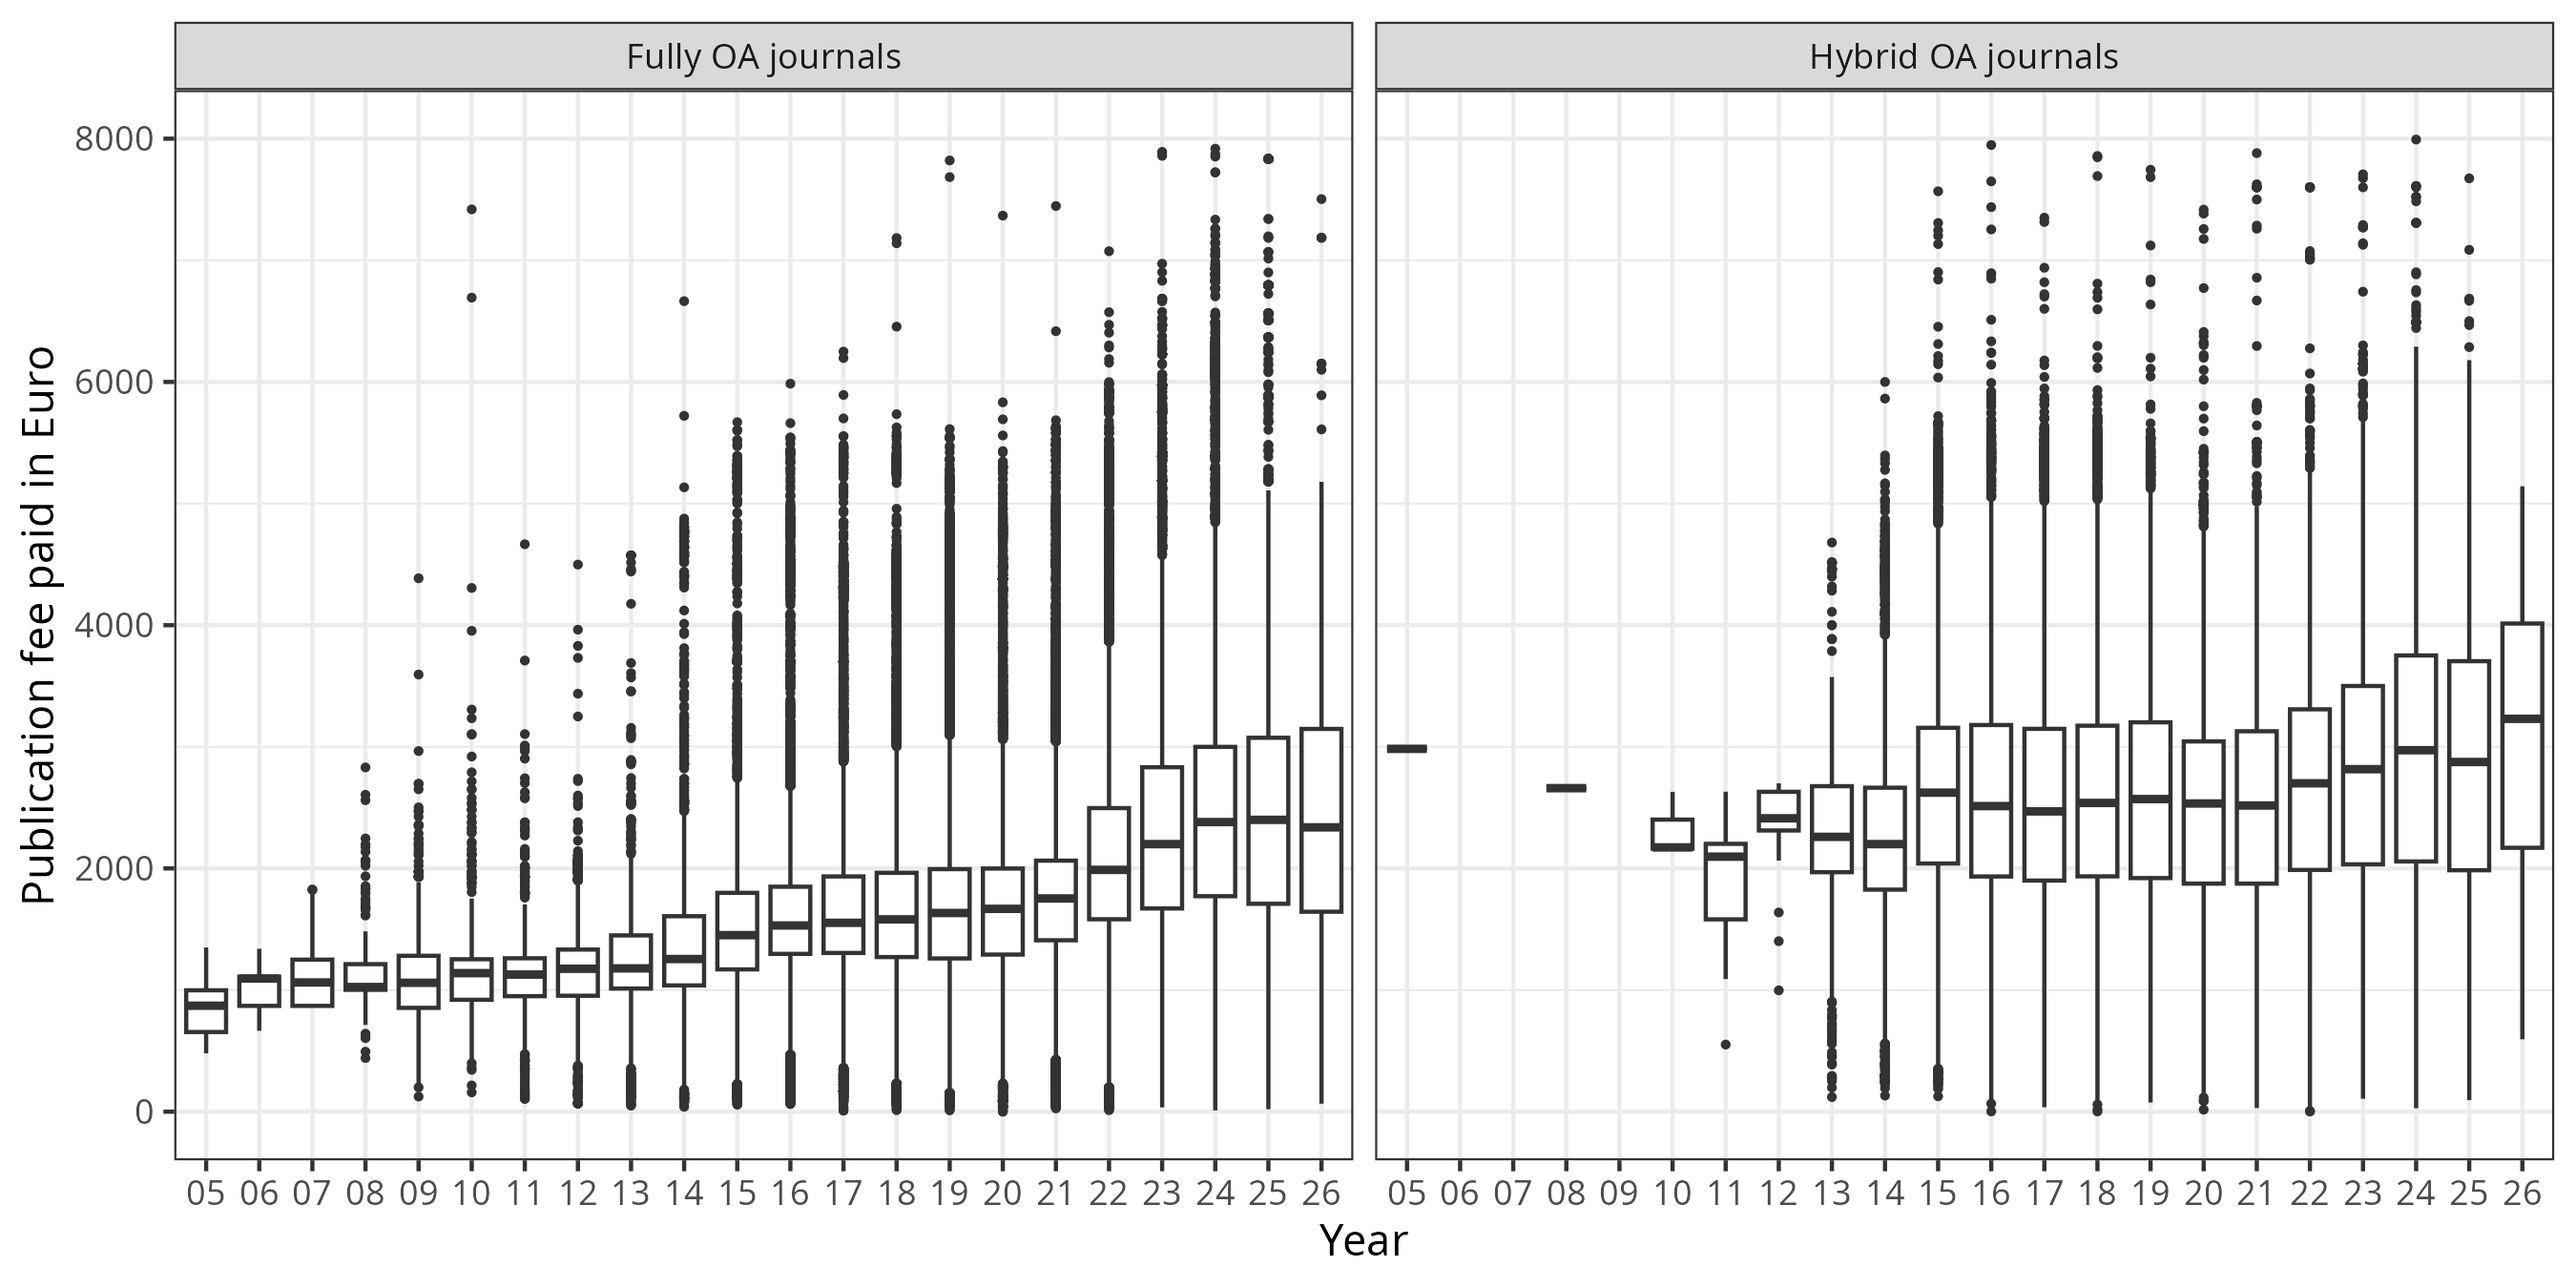
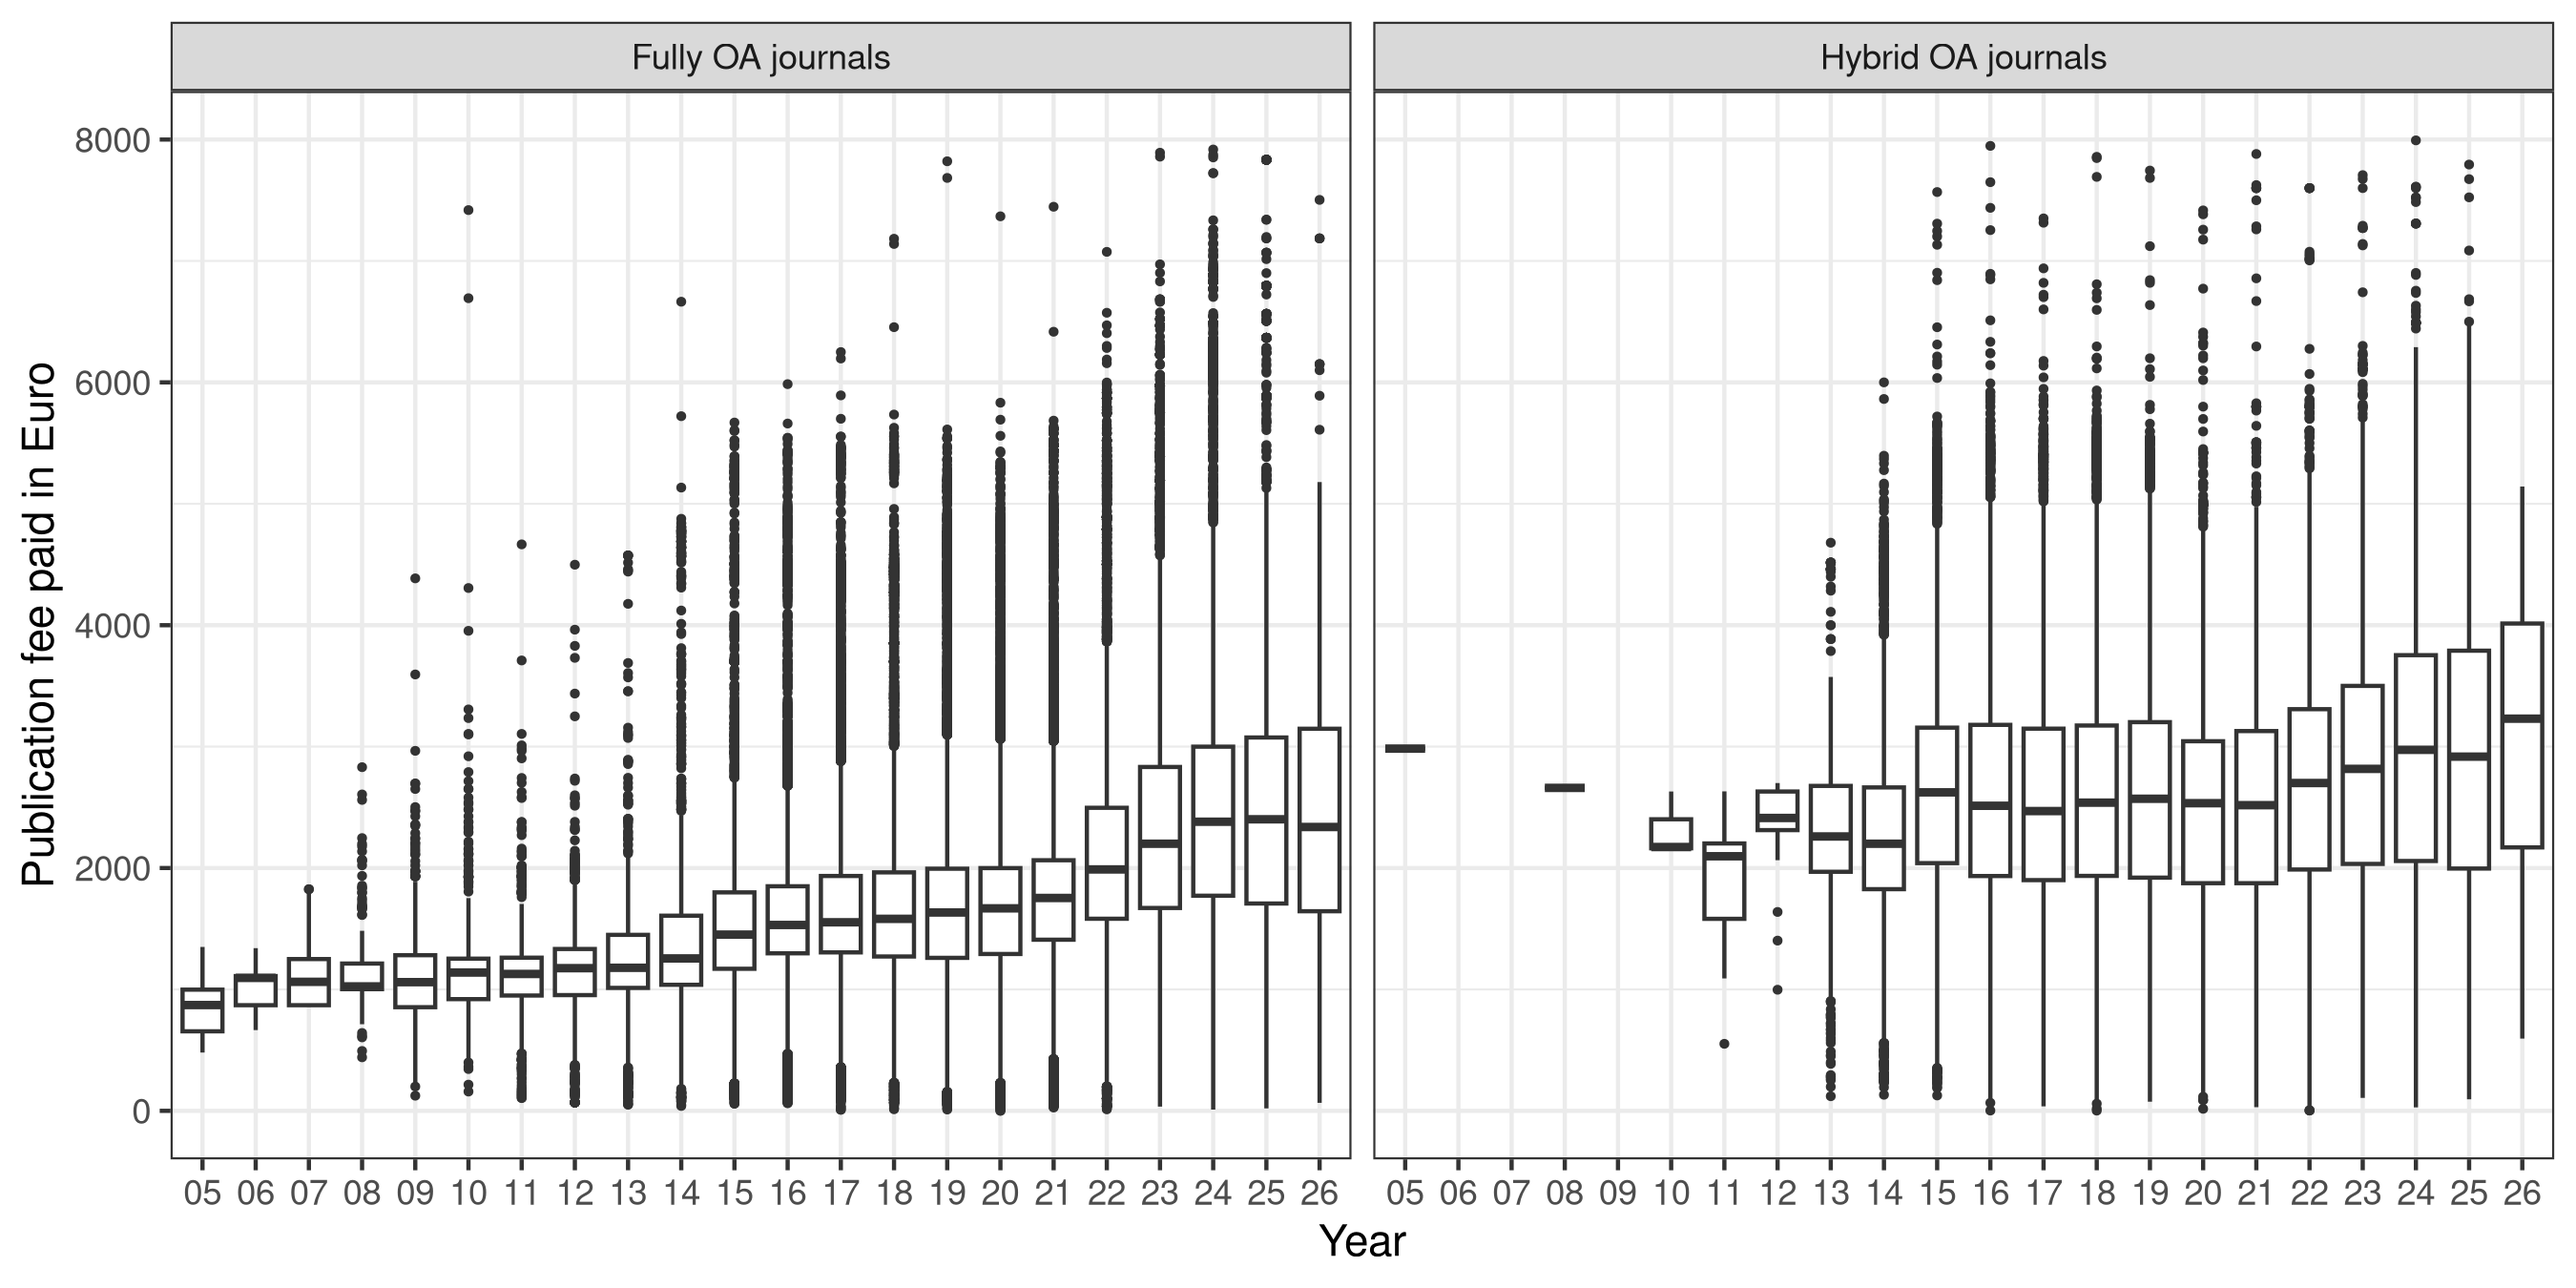
update README

diff --git a/README.md b/README.md
@@ -16,7 +16,7 @@ At the moment OpenAPC provides the following cost data:
 
 | Entity                      | Count                                     | Aggregated Sum (€)               | Contributing Institutions                                         |
 |-----------------------------|-------------------------------------------|----------------------------------|-------------------------------------------------------------------|
-| Articles (APCs)             |294,619                  | 616,943,808    | 489                   |
+| Articles (APCs)             |295,287                  | 618,733,567    | 490                   |
 | Monographs (BPCs)           |2,773                           | 18,346,882             | 121                            |
 | OA Agreements/Contracts     |1,623                 | 215,072,399   | 143                  |
 
@@ -579,6 +579,7 @@ The following institutions have contributed to OpenAPC so far:
 - IRSTEA - Institut de Recherche en Sciences et Technologies pour l'Environnement et l'Agriculture
 - ISARA - Institut Supérieur d'Agriculture et d'Agroalimentaire Rhône-Alpes
 - Institut Pasteur
+- [Institut national de l'environnement industriel et des risques](https://www.ineris.fr)
 - LNE - Laboratoire National de Métrologie et d'Essais
 - La Rochelle Université
 - Le Mans Université
@@ -1027,13 +1028,13 @@ The following institutions have contributed to OpenAPC so far:
 
 
 
-The APC data set contains information on 269,127 Open Access journal articles for which publication fees were paid on an article basis. These articles were published in fully Open Access and hybrid journals, and the corresponding fees were supported financially by 487 research-performing institutions and research funders.
+The APC data set contains information on 269,795 Open Access journal articles for which publication fees were paid on an article basis. These articles were published in fully Open Access and hybrid journals, and the corresponding fees were supported financially by 488 research-performing institutions and research funders.
 
-In total, article publication fee spending covered by the OpenAPC initiative amounted to € 557,815,887. The average payment was € 2,073 and the median was € 1,915.
+In total, article publication fee spending covered by the OpenAPC initiative amounted to € 559,605,646. The average payment was € 2,074 and the median was € 1,916.
 
-200,604 articles in the data set were published in fully open access journals. Total spending on publication fees for these articles amounts to € 379,955,288, including value-added tax; the average payment was € 1,894 (median =  € 1,751, SD = € 931).
+201,181 articles in the data set were published in fully open access journals. Total spending on publication fees for these articles amounts to € 381,401,721, including value-added tax; the average payment was € 1,896 (median =  € 1,751, SD = € 933).
 
-Hybrid open access journals rely on both publication fees and subscriptions as revenue source. 68,523 articles in the data set were published in hybrid journals. Total expenditure amounts to 177,860,599 €; the average fee was € 2,596 (median =  € 2,534, SD = € 1,186).
+Hybrid open access journals rely on both publication fees and subscriptions as revenue source. 68,614 articles in the data set were published in hybrid journals. Total expenditure amounts to 178,203,925 €; the average fee was € 2,597 (median =  € 2,535, SD = € 1,189).
 
 Articles published under OA publishing agreements, including cases where APCs are paid on an article basis within such agreements, are not included in the APC data set but are recorded in the TA data set.
 
@@ -1067,9 +1068,9 @@ Articles published under OA publishing agreements, including cases where APCs ar
 |2020   |      20,276|   1,706|     1,668|   0.2 -  8,906|           4,583|       2,497|         2,534|    16.6 -  7,416|
 |2021   |      25,362|   1,799|     1,753|  27.0 -  8,341|           3,890|       2,568|         2,520|    30.2 - 11,400|
 |2022   |      27,038|   2,066|     1,989|  12.4 - 11,175|           3,188|       2,909|         2,730|     2.1 - 22,210|
-|2023   |      23,928|   2,275|     2,200|  35.0 -  9,893|           3,850|       3,024|         2,860|   106.4 - 11,895|
-|2024   |      18,896|   2,433|     2,382|  10.3 -  9,758|           2,953|       3,135|         3,014|    28.4 - 13,044|
-|2025   |       5,774|   2,576|     2,400|  20.0 -  8,854|             928|       3,206|         2,977|    95.0 - 13,166|
+|2023   |      23,928|   2,275|     2,200|  35.0 -  9,893|           3,849|       3,024|         2,860|   106.4 - 11,895|
+|2024   |      18,895|   2,433|     2,381|  10.3 -  9,758|           2,950|       3,136|         3,014|    28.4 - 13,044|
+|2025   |       6,352|   2,570|     2,401|  20.0 -  8,854|           1,023|       3,252|         2,998|    95.0 - 13,166|
 |2026   |         472|   2,446|     2,338|  66.0 -  7,503|              55|       3,062|         3,230|   595.0 -  5,142|
 
 
@@ -1175,8 +1176,8 @@ Metadata representing publication titles or publisher names is obtained from Cro
 |Identifier                 | Coverage (articles)                                               | Coverage (Books)                                            |
 |:--------------------------|:------------------------------------------------------------------|-------------------------------------------------------------|
 |DOI                        |  99.78%       |88.71%   |
-|PubMed ID                  |  69.78%      | NA                                                          |
-|PubMed Central ID          |  64.23%     | NA                                                          |
+|PubMed ID                  |  69.79%      | NA                                                          |
+|PubMed Central ID          |  64.24%     | NA                                                          |
 
 
 
